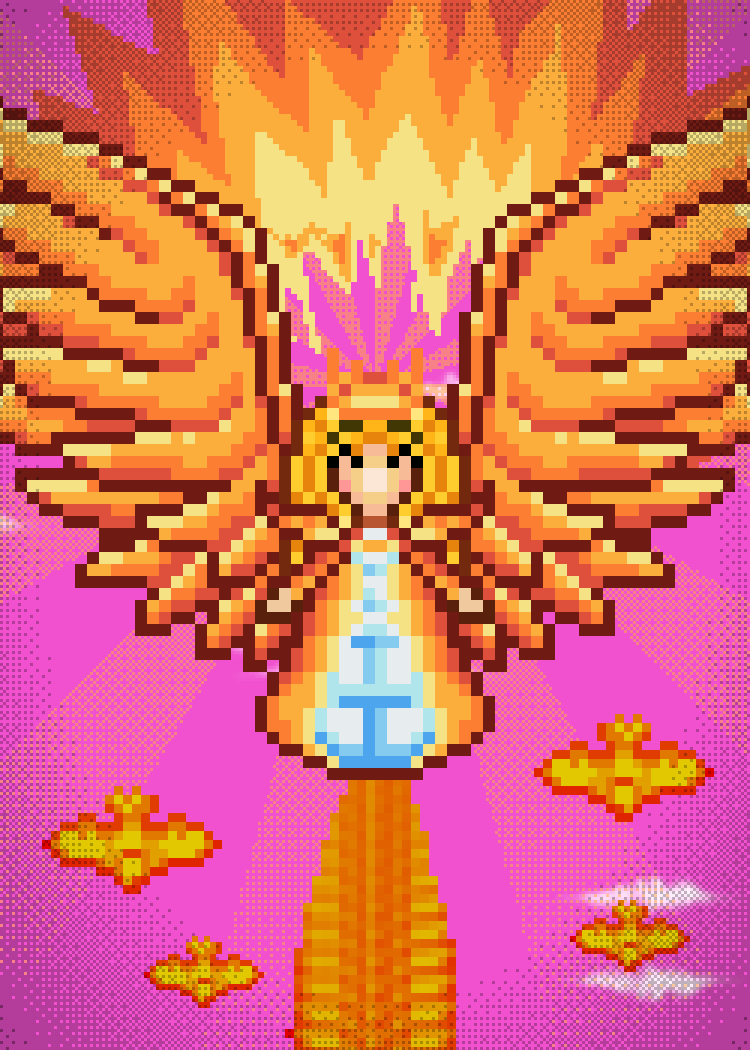
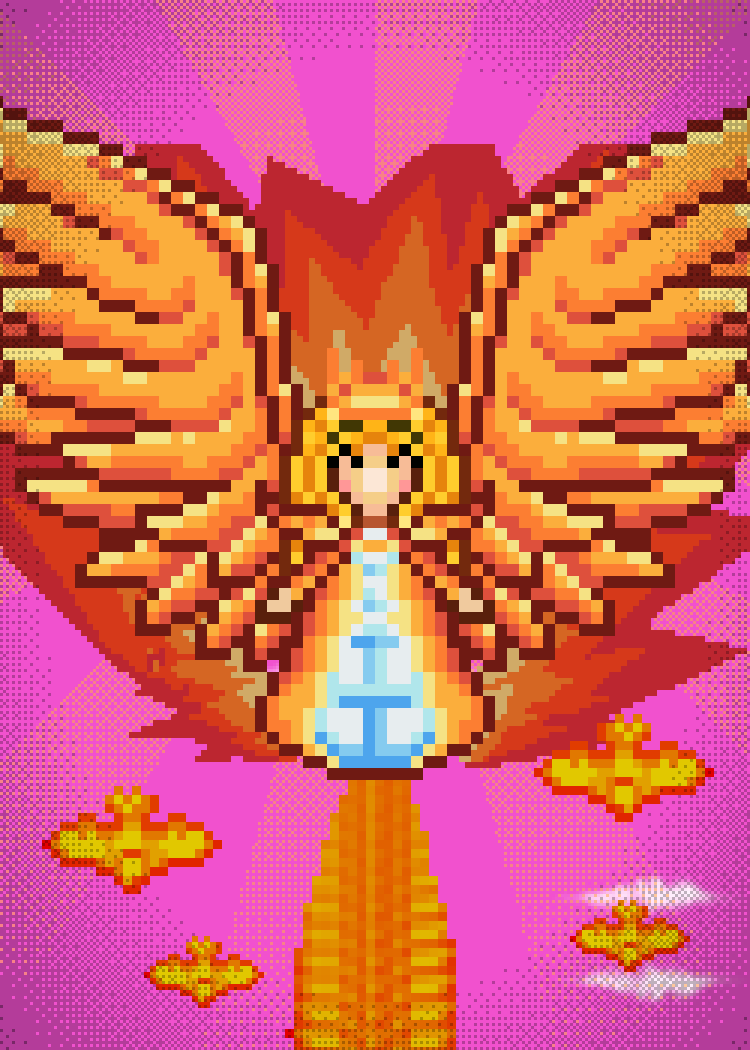
Sleeve-Entwürfe Runde 3: Zwischenstand Block E
Claude-Session: https://claude.ai/code/session_01TEnvTzH2xD44R6Unjv7vDo

diff --git a/data/sleeve-proposals/runde3/generator/s31_phoenix.py b/data/sleeve-proposals/runde3/generator/s31_phoenix.py
@@ -4,7 +4,7 @@
 Quellen (MotiveMoe.xcf):
   - Ebene 556 „Hintergrund-Kopie #1“: rosa Wolkenhimmel (Karte „Cute Princess Mary“)
   - Ebene 486 „Mary-Kopie“ + 487 „Mary #1“: Mary in Phönixgestalt mit Flügeln (Karte „Cute Princess Mary“), 4x
-  - Ebene 488 „Mary #3“: Flammenkranz, 2x
+  - Ebene 488 „Mary #3“: Flammenkranz, 2x (etwas röter umgefärbt)
   - Ebene 422 „Cute Phoenix“: Flammensäule/Feuerschweif (Karte „Cute Phoenix“), 3x
   - Ebene 220 „Ebene #105“: kleine Feuervögel (Karte „Victory Phoenix Cannon“), 3x
   Strahlenkranz: gedithert, selbst erstellt in den Orangetönen der Karte.
@@ -36,6 +36,7 @@ def build():
 
     # Flammenkranz 2x hinter Mary
     burst = compose(F, [488])
+    burst = hsv_shift(burst, -8, 1.0, 0.92)            # etwas röter/dunkler, damit die Flügel abheben
     B2 = up(burst, 2)
     cv.paste(B2, CX - B2.shape[1] // 2, CY - 150)
 
@@ -53,7 +54,7 @@ def build():
     cv.paste(up(bird, 2), 48, 312)
     cv.paste(up(bird, 2), 190, 300)
 
-    # Mary mit Phönixflügeln 3x
+    # Mary mit Phönixflügeln 4x
     mary = sprite('e31_mary_phoenix', F, [486, 487])
     M4 = up(mary, 4)
     cv.paste(M4, CX - M4.shape[1] // 2, CY - 96)
